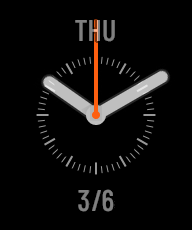
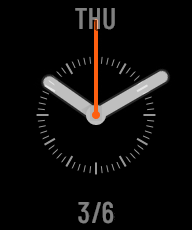
Tweak analog date position

Changed region(s): [[0.375, 0.0304, 0.625, 0.1826], [0.4062, 0.8217, 0.5938, 0.9739]]

diff --git a/src/clock.js b/src/clock.js
@@ -4,10 +4,10 @@ const HAS_POINTER_AOD = 4;
 const HAS_POINTER_NORMAL = 8;
 
 const CLOCK_TYPES = {
-  digital_aod: HAS_DIGITS_AOD | HAS_DIGITS_NORMAL | HAS_POINTER_NORMAL,
   analog_aod: HAS_DIGITS_NORMAL | HAS_POINTER_AOD | HAS_POINTER_NORMAL,
-  digital_only: HAS_DIGITS_AOD | HAS_DIGITS_NORMAL,
   analog_only: HAS_POINTER_AOD | HAS_POINTER_NORMAL,
+  digital_aod: HAS_DIGITS_AOD | HAS_DIGITS_NORMAL | HAS_POINTER_NORMAL,
+  digital_only: HAS_DIGITS_AOD | HAS_DIGITS_NORMAL,
 };
 
 function renderClock(isAOD, isEdit) {
@@ -24,7 +24,7 @@ function renderClock(isAOD, isEdit) {
     h: 230,
     select_image: "edit/clock/select.png",
     un_select_image: "edit/clock/unselect.png",
-    default_type: CLOCK_TYPES.digital_aod,
+    default_type: CLOCK_TYPES.analog_aod,
     optional_types,
     count: optional_types.length,
     tips_BG: "",

diff --git a/src/date.js b/src/date.js
@@ -9,9 +9,9 @@ function renderDate(hasDigits, hasPointer) {
     if (hasPointer) {
       return {
         x: Math.round((192 - weekdayWidth) / 2),
-        y: 145,
+        y: 133,
         month_startX: Math.round((192 - getDateWidth()) / 2),
-        month_startY: 315,
+        month_startY: 327,
       };
     }
 
